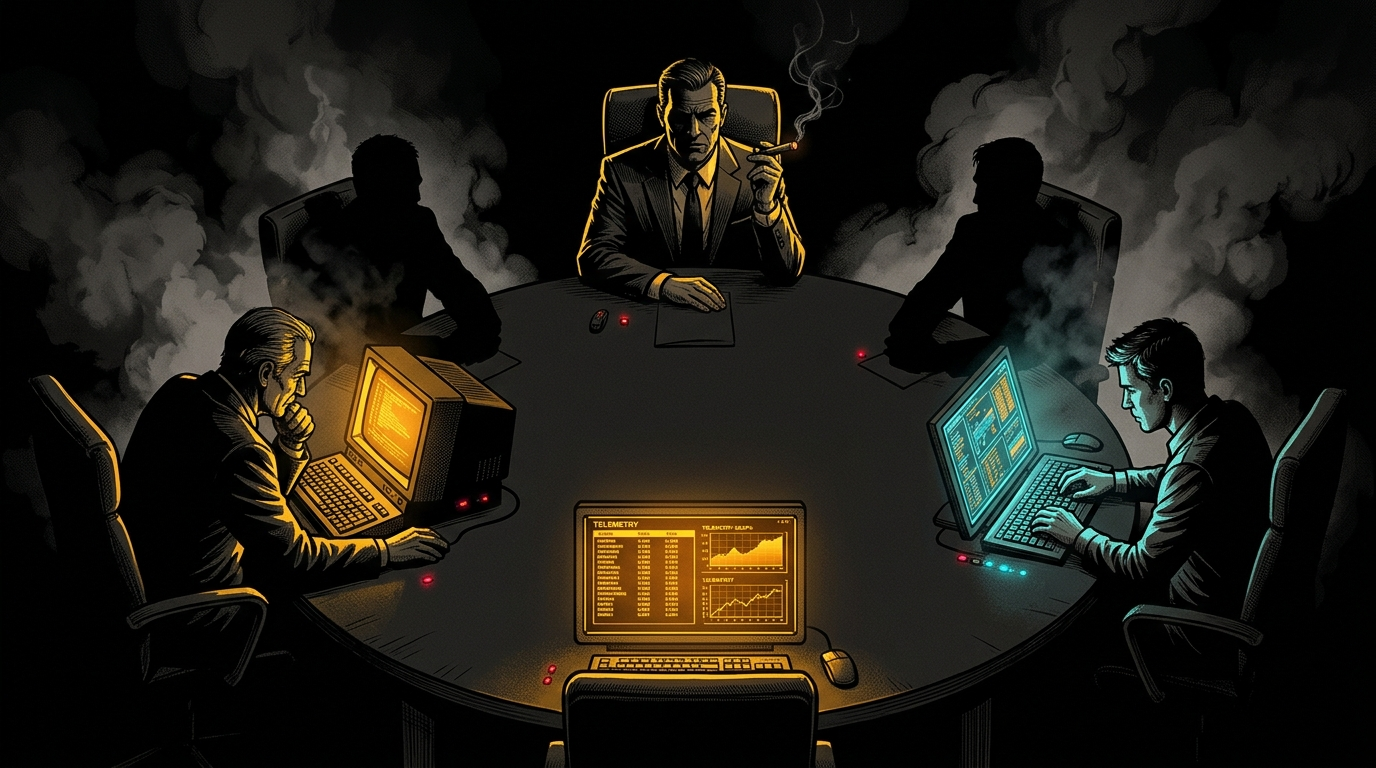
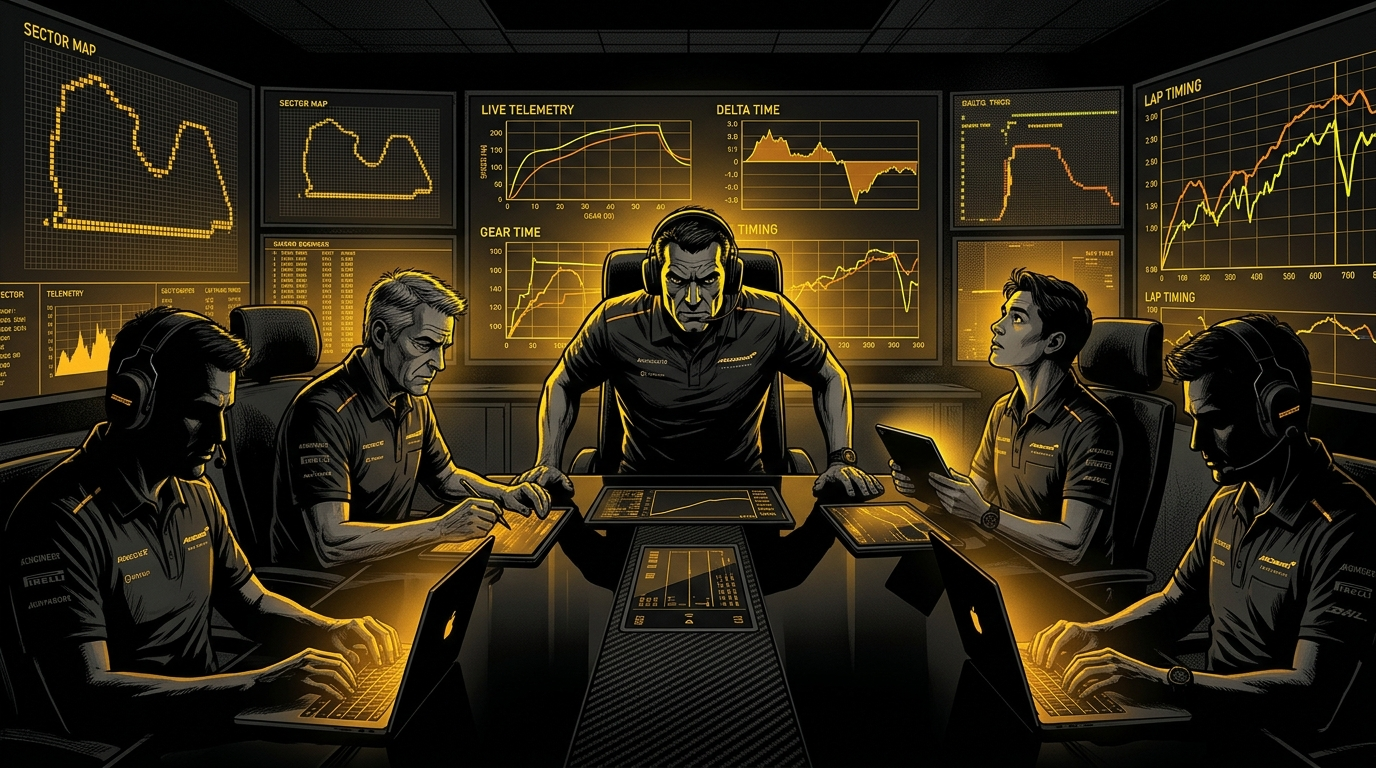
fix: authentic F1 engineering boardroom artwork with Frank Miller noir lighting

diff --git a/src/app/war-room/page.tsx b/src/app/war-room/page.tsx
@@ -247,12 +247,12 @@ function WarRoomContent() {
             >
                 <img
                     src="/war_room_bg.jpg"
-                    alt="War Room Boardroom Frank Miller Noir"
-                    className="w-full h-full object-cover object-center brightness-[0.72] contrast-[1.28]"
+                    alt="Formula 1 War Room Boardroom Noir"
+                    className="w-full h-full object-cover object-center brightness-[0.82] contrast-[1.18]"
                 />
-                {/* Vinheta Noir e Efeitos de Fumaça/Luz */}
-                <div className="absolute inset-0 bg-gradient-to-t from-black via-black/50 to-black/85" />
-                <div className="absolute inset-0 bg-radial-vignette opacity-70" />
+                {/* Vinheta de Iluminação Chiaroscuro Noir & F1 Telemetry Atmosphere */}
+                <div className="absolute inset-0 bg-gradient-to-t from-black via-black/40 to-black/75" />
+                <div className="absolute inset-0 bg-radial-vignette opacity-50" />
             </div>
 
             {/* BARRA SUPERIOR DE TELEMETRIA & NAVEGAÇÃO DA WAR ROOM */}
